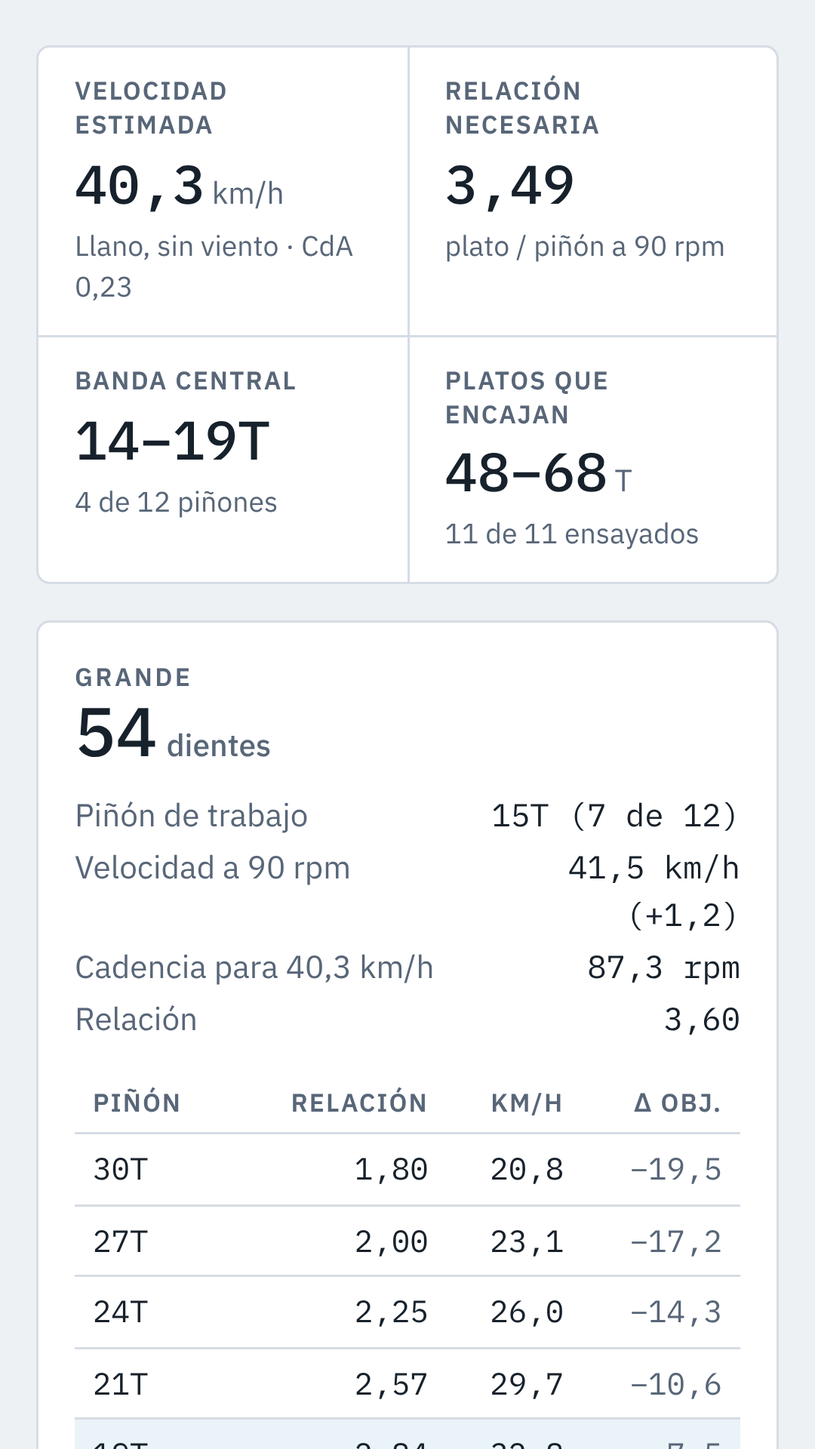
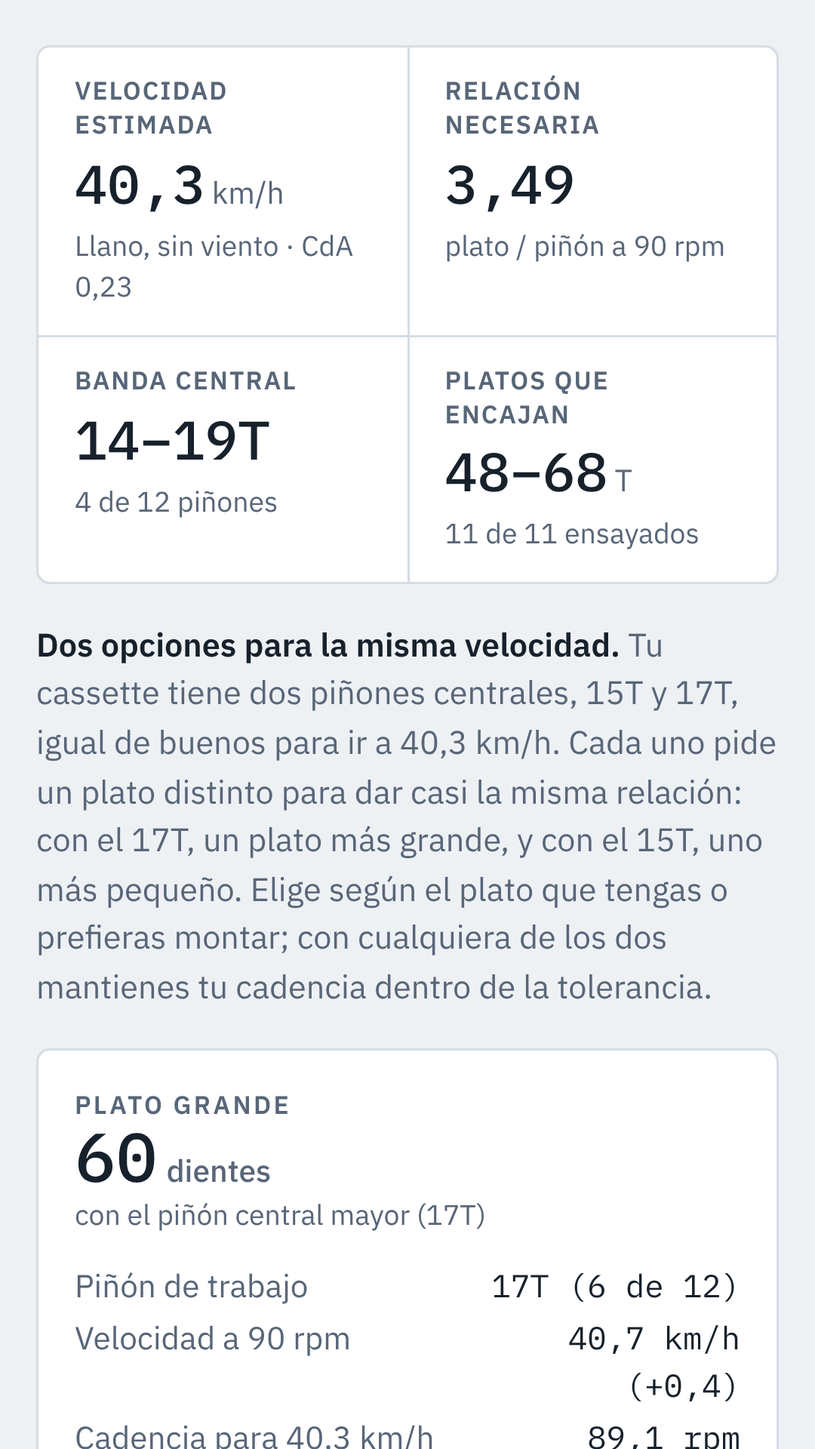
feat: dos opciones de plato (grande y pequeño) en lugar de Grande/Medio/Bajo
- analyze propone hasta dos platos, anclados al piñón central mayor («Plato grande»)
  y al menor («Plato pequeño») de la banda; con un único piñón central, una propuesta.
  El plato propuesto ya no salta entre dos familias al subir la potencia.
- Explicación para el usuario sobre las tarjetas, aviso si una ancla no tiene plato
  en el rango ensayado y textos en español e inglés.
- La tabla de subidas elige entre las dos opciones (por defecto, el plato grande).
- test: dos opciones ancladas, ancla ausente, banda impar, monotonía con los ajustes
  por defecto (150–400 W, todos los cassettes) y valores esperados de 200 a 300 W.
- docs: README, CHANGELOG, ficha de Play y descripción del manifest; capturas y gráfico
  de funciones de Play regenerados con la nueva interfaz (+ captura de subidas).

Claude-Session: https://claude.ai/code/session_01HU79VpV1XnotLDyT5Vd8zc

diff --git a/index.html b/index.html
@@ -4,7 +4,7 @@
 <meta charset="utf-8">
 <meta name="viewport" content="width=device-width, initial-scale=1, viewport-fit=cover">
 <title>Calculadora de desarrollos</title>
-<meta name="description" content="Calculadora de desarrollos para triatlón y contrarreloj: elige el plato con la mejor línea de cadena para tu velocidad objetivo, más una opción por arriba y otra por abajo.">
+<meta name="description" content="Calculadora de desarrollos para triatlón y contrarreloj: encuentra el plato con la mejor línea de cadena para tu velocidad objetivo: una opción grande y otra pequeña, según el piñón central que prefieras.">
 <meta name="theme-color" content="#EEF1F4">
 <meta name="color-scheme" content="light dark">
 <meta name="mobile-web-app-capable" content="yes">
@@ -19,7 +19,7 @@
 <style>
   html { padding-top: env(safe-area-inset-top, 0px); padding-bottom: env(safe-area-inset-bottom, 0px); }
   body { margin: 0; min-height: 100vh; }
-  /* Layout: barra superior con idioma y tema, panel de entradas, franja de resultado, tres propuestas en columnas que apilan en móvil, matriz de ensayo desplegable. Claro por defecto. */
+  /* Layout: barra superior con idioma y tema, panel de entradas, franja de resultado, dos propuestas en columnas que apilan en móvil, matriz de ensayo desplegable. Claro por defecto. */
   :root {
     --bg: #EEF1F4;
     --surface: #FFFFFF;
@@ -102,11 +102,13 @@
   .cards { display: grid; grid-template-columns: minmax(0, 1fr); gap: 16px; }
   @media (min-width: 1100px) { .cards { grid-template-columns: repeat(3, minmax(0, 1fr)); } }
   .card { background: var(--surface); border: 1px solid var(--line); border-radius: 6px; padding: 16px; display: flex; flex-direction: column; gap: 12px; min-width: 0; }
-  .card.best { border-color: var(--accent); box-shadow: 0 0 0 1px var(--accent); }
   .card header { display: flex; justify-content: space-between; align-items: center; gap: 8px; flex-wrap: wrap; min-height: 22px; }
   .tag { font-size: .7rem; text-transform: uppercase; letter-spacing: .1em; font-weight: 600; color: var(--muted); }
   .chip { font-size: .68rem; text-transform: uppercase; letter-spacing: .08em; font-weight: 600; background: var(--warn-soft); color: var(--warn); padding: 2px 8px; border-radius: 3px; }
   .cards.one { grid-template-columns: minmax(0, 1fr); max-width: 520px; }
+  @media (min-width: 700px) { .cards.two { grid-template-columns: repeat(2, minmax(0, 1fr)); max-width: 820px; } }
+  .expl { margin: 0; font-size: .9rem; color: var(--muted); max-width: 90ch; }
+  .expl strong { color: var(--ink); }
   .badge { font-size: .68rem; text-transform: uppercase; letter-spacing: .08em; font-weight: 600; background: var(--accent); color: var(--accent-ink); padding: 2px 8px; border-radius: 3px; }
   .big { font-family: var(--f-mono); font-size: 2.2rem; font-weight: 500; line-height: 1; }
   .big small { font-family: var(--f-body); font-size: .85rem; color: var(--muted); margin-left: 4px; }
@@ -319,33 +321,39 @@ function nearestIdx(chain, cogs, v, cad, circ) {
 function better(a, b) { // a mejor que b: más centrado, y a igualdad menor error de velocidad
   return a.off < b.off || (a.off === b.off && Math.abs(a.dv) < Math.abs(b.dv));
 }
-// Solo platos de dentado par. Medio = el plato par que encaja con la mejor línea de cadena (piñón más centrado; a igualdad, menor error de velocidad).
-// Grande = Medio + 2 dientes y Bajo = Medio − 2 dientes.
+// Solo platos de dentado par. Se proponen hasta dos platos, cada uno anclado a uno de los dos piñones centrales de la banda:
+// «high» = el piñón central mayor (da el plato más grande) y «low» = el menor (da el plato más pequeño). En cada ancla se elige el plato par
+// que encaja con menor error de velocidad. Anclar siempre al mismo piñón hace que, al subir la potencia, el plato propuesto solo suba o se mantenga
+// (salvo en los extremos del rango de platos). Con un solo piñón central (banda de nº impar) hay una única propuesta, «one».
+// Si ninguna ancla tiene plato que encaje pero otros sí, se propone el mejor de ellos (más centrado y, a igualdad, menor error de velocidad).
 function analyze(cogs, vKmh, cad, circ, cmin, cmax, kOverride, tolRpm) {
   var band = centralBand(cogs.length, kOverride);
   var tol = tolRpm > 0 ? tolRpm : 6;
   var lo = cmin + (cmin % 2), hi = cmax - (cmax % 2);
-  var rows = [], byChain = {};
+  var rows = [];
   for (var c = lo; c <= hi; c += 2) {
     var idx = nearestIdx(c, cogs, vKmh, cad, circ);
     var vv = speedKmh(c, cogs[idx], cad, circ);
     var cadNeed = cadenceFor(vKmh, c, cogs[idx], circ);
     var inBand = idx >= band.start && idx <= band.end;
-    var r = { chain: c, idx: idx, v: vv, dv: vv - vKmh, cadNeed: cadNeed, inBand: inBand,
-              fit: inBand && Math.abs(cadNeed - cad) <= tol, off: Math.abs(idx - band.center) };
-    rows.push(r); byChain[c] = r;
+    rows.push({ chain: c, idx: idx, v: vv, dv: vv - vKmh, cadNeed: cadNeed, inBand: inBand,
+                fit: inBand && Math.abs(cadNeed - cad) <= tol, off: Math.abs(idx - band.center) });
   }
   var fits = rows.filter(function (r) { return r.fit; });
-  var props = [];
-  var bestRow = null;
-  fits.forEach(function (r) { if (!bestRow || better(r, bestRow)) bestRow = r; });
-  if (bestRow) {
-    [["large", bestRow.chain + 2], ["medium", bestRow.chain], ["small", bestRow.chain - 2]].forEach(function (e) {
-      if (byChain[e[1]]) props.push({ label: e[0], row: byChain[e[1]] });
-    });
+  var lowIdx = Math.floor(band.center), highIdx = Math.ceil(band.center);
+  var anchors = lowIdx === highIdx ? [{ label: "one", idx: lowIdx }] : [{ label: "high", idx: highIdx }, { label: "low", idx: lowIdx }];
+  var props = [], missing = [];
+  anchors.forEach(function (an) {
+    var best = null;
+    fits.forEach(function (r) { if (r.idx === an.idx && (!best || Math.abs(r.dv) < Math.abs(best.dv))) best = r; });
+    if (best) props.push({ label: an.label, row: best, anchor: an.idx }); else missing.push(an);
+  });
+  if (!props.length && fits.length) {
+    var any = null;
+    fits.forEach(function (r) { if (!any || better(r, any)) any = r; });
+    props.push({ label: "one", row: any, anchor: any.idx });
   }
-  return { band: band, rows: rows, fits: fits, props: props, bestChain: bestRow ? bestRow.chain : null,
-           tol: tol, lo: lo, hi: hi, atCeiling: !!bestRow && bestRow.chain + 2 > hi, atFloor: !!bestRow && bestRow.chain - 2 < lo };
+  return { band: band, rows: rows, fits: fits, props: props, missing: missing, tol: tol, lo: lo, hi: hi };
 }
 // Plato fijo (sin simulación): analiza solo ese plato, de cualquier dentado.
 function fixedRow(chain, cogs, vKmh, cad, circ, kOverride, tolRpm) {
@@ -378,7 +386,7 @@ function parseCogs(text) {
 var DICT = {
   es: {
     title: "Calculadora de desarrollos",
-    sub: "Triatlón y contrarreloj. Encuentra el plato con la mejor línea de cadena para tu velocidad de carrera (piñones centrales del cassette, a tu cadencia) y una opción por arriba y otra por abajo.",
+    sub: "Triatlón y contrarreloj. Encuentra el plato con la mejor línea de cadena para tu velocidad de carrera (piñones centrales del cassette, a tu cadencia): una opción de plato grande y otra de plato pequeño.",
     lbl_cassette: "Cassette instalado", lbl_custom: "Dientes del cassette (11–13)",
     lbl_power: "Potencia media objetivo (W)", lbl_cad: "Cadencia media objetivo (rpm)", lbl_cda: "CdA (m²)",
     adv: "Ajustes avanzados", lbl_mass: "Masa ciclista + bici (kg)", lbl_crr: "Crr (rodadura)", lbl_rho: "Densidad del aire (kg/m³)",
@@ -414,21 +422,22 @@ var DICT = {
     s_fit: "Platos que encajan", none: "ninguno", d_fit: "{a} de {b} ensayados",
     w_norange: "El rango de platos no contiene ningún dentado par.",
     w_none: "Ningún plato par entre {min} y {max}T deja {v} km/h dentro de la banda central, a ±{tol} rpm de tu cadencia, con este cassette. El más próximo es {c}T, que cae en el piñón de {g}T ({cn} rpm para la velocidad objetivo). Amplía el rango de platos, sube la tolerancia o cambia de cassette.",
-    w_few: "Solo se pueden mostrar {n} propuesta(s): el plato Medio queda en el borde del rango ensayado. Amplía el rango en los ajustes avanzados para ver también el plato por encima y el de por debajo.",
-    w_ceil: "No hay propuesta Grande: el plato Medio ya está a 2 dientes del máximo del rango ({hi}T). Sube el plato máximo en los ajustes avanzados.",
-    w_floor: "No hay propuesta Baja: el plato Medio ya está a 2 dientes del mínimo del rango ({lo}T). Baja el plato mínimo en los ajustes avanzados.",
-    tag_large: "Grande", tag_medium: "Medio", tag_small: "Bajo", badge_best: "Mejor línea de cadena",
+    w_anchor: "No hay opción con el piñón central de {g}T: ningún plato par entre {lo} y {hi}T encaja con él a ±{tol} rpm de tu cadencia. Amplía el rango de platos en los ajustes avanzados o sube la tolerancia.",
+    tag_high: "Plato grande", tag_low: "Plato pequeño", tag_one: "Plato propuesto",
+    anchor_high: "con el piñón central mayor ({g}T)", anchor_low: "con el piñón central menor ({g}T)", anchor_one: "con el piñón de {g}T",
+    expl_two: "<strong>Dos opciones para la misma velocidad.</strong> Tu cassette tiene dos piñones centrales, {lo}T y {hi}T, igual de buenos para ir a {v} km/h. Cada uno pide un plato distinto para dar casi la misma relación: con el {hi}T, un plato más grande, y con el {lo}T, uno más pequeño. Elige según el plato que tengas o prefieras montar; con cualquiera de los dos mantienes tu cadencia dentro de la tolerancia.",
+    expl_one: "<strong>Plato propuesto.</strong> Tu cassette tiene un único piñón central ({g}T) y es el que mejor encaja para ir a {v} km/h con tu cadencia.",
     chip_cad: "Cadencia fuera de tolerancia", chip_band: "Fuera de la banda central", teeth: "dientes",
     k_work: "Piñón de trabajo", k_work_v: "{g}T ({pos} de {n})", k_speed: "Velocidad a {cad} rpm", k_cad: "Cadencia para {v} km/h", k_ratio: "Relación",
     th_cog: "Piñón", th_ratio: "Relación", th_kmh: "km/h", th_delta: "Δ obj.", mark_work: "piñón de trabajo", th_chain: "Plato",
     m_sum: "Ensayo completo: velocidad (km/h) de cada plato con cada piñón a {cad} rpm", m_band: "Banda central", m_near: "Piñón más cercano a {v} km/h",
-    n_crit: "<strong>Criterio.</strong> Para cada plato se busca el piñón cuya velocidad a tu cadencia queda más cerca de la objetivo. El plato encaja si ese piñón está en la banda central y la cadencia necesaria para la velocidad objetivo queda dentro de la tolerancia (±{tol} rpm). «Medio» es el plato de dentado par que encaja con la mejor línea de cadena: el piñón de trabajo más centrado en el cassette (a igualdad, el que menos se aleja de la velocidad objetivo). «Grande» es +2 dientes y «Bajo» −2 dientes respecto al Medio, tanto si encajan como si no; si alguno se sale del criterio, la tarjeta lo indica.",
+    n_crit: "<strong>Criterio.</strong> Para cada plato se busca el piñón cuya velocidad a tu cadencia queda más cerca de la objetivo. El plato encaja si ese piñón está en la banda central y la cadencia necesaria para la velocidad objetivo queda dentro de la tolerancia (±{tol} rpm). Se proponen hasta dos platos de dentado par que encajan, cada uno apoyado en uno de los dos piñones centrales de la banda (el mayor da el plato grande y el menor, el pequeño); en cada uno se elige el de menor error de velocidad. Con un número impar de piñones en la banda solo hay un piñón central y una única propuesta. Al apoyar cada opción siempre en el mismo piñón, al subir la potencia el plato propuesto solo sube o se mantiene (salvo en los extremos del rango de platos ensayado).",
     n_model: "<strong>Modelo.</strong> Potencia en rueda = potencia × eficiencia = ½·ρ·CdA·v³ + Crr·m·g·v, en llano y sin viento. Con subidas o viento la velocidad media real cambia y con ella el piñón óptimo (la tabla de subidas muestra el coste en cuesta). Se asume plato único (1x) o el plato grande en un 2x.",
     n_cogs: "<strong>Dentados.</strong> Los dentados de SRAM (Red/Force 11 y 12 velocidades, XPLR 13) están contrastados con fichas del fabricante y tiendas; los de Shimano son los habituales de la serie. Comprueba el tuyo y, si difiere, usa «Personalizado»."
   },
   en: {
     title: "Gear calculator",
-    sub: "Triathlon and time trial. Finds the chainring with the best chain line for your race speed (middle sprockets of the cassette, at your cadence), plus one size up and one down.",
+    sub: "Triathlon and time trial. Finds the chainring with the best chain line for your race speed (middle sprockets of the cassette, at your cadence): one big-chainring option and one small-chainring option.",
     lbl_cassette: "Installed cassette", lbl_custom: "Cassette teeth (11–13)",
     lbl_power: "Target average power (W)", lbl_cad: "Target average cadence (rpm)", lbl_cda: "CdA (m²)",
     adv: "Advanced settings", lbl_mass: "Rider + bike mass (kg)", lbl_crr: "Crr (rolling resistance)", lbl_rho: "Air density (kg/m³)",
@@ -464,15 +473,16 @@ var DICT = {
     s_fit: "Chainrings that fit", none: "none", d_fit: "{a} of {b} tested",
     w_norange: "The chainring range contains no even tooth count.",
     w_none: "No even-numbered chainring between {min} and {max}T keeps {v} km/h inside the central band within ±{tol} rpm of your cadence with this cassette. The closest is {c}T, which lands on the {g}T sprocket ({cn} rpm for the target speed). Widen the chainring range, raise the tolerance or change cassette.",
-    w_few: "Only {n} proposal(s) can be shown: the Medium chainring sits at the edge of the tested range. Widen the range in the advanced settings to see the sizes above and below it.",
-    w_ceil: "No Large proposal: the Medium chainring is already within 2 teeth of the top of the range ({hi}T). Raise the largest chainring in the advanced settings.",
-    w_floor: "No Small proposal: the Medium chainring is already within 2 teeth of the bottom of the range ({lo}T). Lower the smallest chainring in the advanced settings.",
-    tag_large: "Large", tag_medium: "Medium", tag_small: "Small", badge_best: "Best chain line",
+    w_anchor: "No option with the {g}T middle sprocket: no even-numbered chainring between {lo} and {hi}T fits it within ±{tol} rpm of your cadence. Widen the chainring range in the advanced settings or raise the tolerance.",
+    tag_high: "Big chainring", tag_low: "Small chainring", tag_one: "Proposed chainring",
+    anchor_high: "with the larger middle sprocket ({g}T)", anchor_low: "with the smaller middle sprocket ({g}T)", anchor_one: "with the {g}T sprocket",
+    expl_two: "<strong>Two options for the same speed.</strong> Your cassette has two middle sprockets, {lo}T and {hi}T, equally good for riding at {v} km/h. Each one needs a different chainring to give almost the same ratio: a bigger chainring with the {hi}T, a smaller one with the {lo}T. Pick the one that matches the chainring you own or prefer to fit; either keeps your cadence within tolerance.",
+    expl_one: "<strong>Proposed chainring.</strong> Your cassette has a single middle sprocket ({g}T) and it is the best fit for riding at {v} km/h at your cadence.",
     chip_cad: "Cadence out of tolerance", chip_band: "Outside central band", teeth: "teeth",
     k_work: "Working sprocket", k_work_v: "{g}T ({pos} of {n})", k_speed: "Speed at {cad} rpm", k_cad: "Cadence for {v} km/h", k_ratio: "Ratio",
     th_cog: "Sprocket", th_ratio: "Ratio", th_kmh: "km/h", th_delta: "Δ target", mark_work: "working sprocket", th_chain: "Chainring",
     m_sum: "Full trial: speed (km/h) of each chainring on each sprocket at {cad} rpm", m_band: "Central band", m_near: "Sprocket closest to {v} km/h",
-    n_crit: "<strong>Criterion.</strong> For each chainring, the sprocket whose speed at your cadence is closest to the target is picked. The chainring fits if that sprocket is in the central band and the cadence needed for the target speed is within the tolerance (±{tol} rpm). “Medium” is the even-toothed chainring that fits with the best chain line: the working sprocket nearest the middle of the cassette (ties go to the smaller speed error). “Large” is +2 teeth and “Small” is −2 teeth from Medium, whether or not they fit; the card flags any that fall outside the criterion.",
+    n_crit: "<strong>Criterion.</strong> For each chainring, the sprocket whose speed at your cadence is closest to the target is picked. The chainring fits if that sprocket is in the central band and the cadence needed for the target speed is within the tolerance (±{tol} rpm). Up to two even-toothed chainrings that fit are proposed, each based on one of the two middle sprockets of the band (the larger gives the big chainring, the smaller gives the small one); in each case the one with the smaller speed error is chosen. With an odd number of sprockets in the band there is a single middle sprocket and a single proposal. Because each option always rests on the same sprocket, the proposed chainring only goes up or stays the same as power rises (except at the ends of the tested chainring range).",
     n_model: "<strong>Model.</strong> Wheel power = power × efficiency = ½·ρ·CdA·v³ + Crr·m·g·v, on flat ground with no wind. With climbs or wind the real average speed changes, and so does the best sprocket (the climbing table shows the uphill cost). It assumes a single chainring (1x) or the big ring of a 2x.",
     n_cogs: "<strong>Tooth counts.</strong> SRAM tooth counts (Red/Force 11- and 12-speed, XPLR 13-speed) were checked against manufacturer sheets and retailers; Shimano ones are the usual counts for the series. Check yours and, if it differs, use “Custom”."
   }
@@ -534,7 +544,7 @@ function findPreset(id) {
 }
 function num(id) { return parseFloat($(id).value); }
 
-function renderCard(p, ctx, isBest) {
+function renderCard(p, ctx) {
   var r = p.row, cogs = ctx.cogs, band = ctx.res.band;
   var cadNeed = cadenceFor(ctx.v, r.chain, cogs[r.idx], ctx.circ);
   var trs = "";
@@ -544,9 +554,10 @@ function renderCard(p, ctx, isBest) {
     trs += '<tr class="' + cls + '"><td>' + cogs[j] + "T" + (j === r.idx ? '<span class="mark" role="img" aria-label="' + t("mark_work") + '" title="' + t("mark_work") + '">●</span>' : "") + "</td><td>" +
       fmt(r.chain / cogs[j], 2) + "</td><td>" + fmt(s, 1) + '</td><td class="' + (j === r.idx ? "" : "neg") + '">' + sgn(s - ctx.v, 1) + "</td></tr>";
   }
-  return '<article class="card' + (isBest ? " best" : "") + '">' +
-    '<header><div><div class="tag">' + t("tag_" + p.label) + '</div><div class="big">' + r.chain + "<small>" + t("teeth") + "</small></div></div>" +
-    (ctx.fixed && r.fit ? '<span class="badge">' + t("fixed_ok") + "</span>" : isBest ? '<span class="badge">' + t("badge_best") + "</span>" : (r.fit ? "" : '<span class="chip">' + (r.inBand ? t("chip_cad") : t("chip_band")) + "</span>")) + "</header>" +
+  return '<article class="card">' +
+    '<header><div><div class="tag">' + t("tag_" + p.label) + '</div><div class="big">' + r.chain + "<small>" + t("teeth") + "</small></div>" +
+    (p.label === "fixed" ? "" : '<div class="hint">' + t("anchor_" + p.label, { g: cogs[r.idx] }) + "</div>") + "</div>" +
+    (ctx.fixed && r.fit ? '<span class="badge">' + t("fixed_ok") + "</span>" : (r.fit ? "" : '<span class="chip">' + (r.inBand ? t("chip_cad") : t("chip_band")) + "</span>")) + "</header>" +
     '<dl class="kv">' +
     "<dt>" + t("k_work") + "</dt><dd>" + t("k_work_v", { g: cogs[r.idx], pos: cogs.length - r.idx, n: cogs.length }) + "</dd>" +
     "<dt>" + t("k_speed", { cad: fmt(ctx.cad, 0) }) + "</dt><dd>" + fmt(r.v, 1) + " km/h (" + sgn(r.dv, 1) + ")</dd>" +
@@ -555,11 +566,11 @@ function renderCard(p, ctx, isBest) {
     '<div class="scroll"><table><thead><tr><th>' + t("th_cog") + "</th><th>" + t("th_ratio") + "</th><th>" + t("th_kmh") + "</th><th>" + t("th_delta") + "</th></tr></thead><tbody>" + trs + "</tbody></table></div></article>";
 }
 
-var climbSel = "medium";
+var climbSel = "high";
 function renderClimb(ctx) {
   var opts = ctx.fixed ? [{ label: "fixed", chain: ctx.fx.row.chain }] : ctx.res.props.map(function (p) { return { label: p.label, chain: p.row.chain }; });
   if (!opts.length || !ctx.modelOk) return "";
-  var sel = opts.filter(function (q) { return q.label === climbSel; })[0] || opts.filter(function (q) { return q.label === "medium"; })[0] || opts[0];
+  var sel = opts.filter(function (q) { return q.label === climbSel; })[0] || opts[0];
   var cogs = ctx.cogs, workIdx = nearestIdx(sel.chain, cogs, ctx.v, ctx.cad, ctx.circ);
   var tb = climbTable(cogs, sel.chain, ctx.cad, ctx.circ, CLIMB_GRADES, ctx.o, ctx.ftp, HIDE_W);
   var head = "<tr><th>" + t("c_cog") + "</th><th>" + t("th_kmh") + "</th>";
@@ -672,17 +683,17 @@ function render() {
     '<div class="stat"><div class="lbl">' + t("s_fit") + '</div><div><span class="v">' + (res.fits.length ? res.fits[0].chain + "–" + res.fits[res.fits.length - 1].chain : t("none")) + "</span>" + (res.fits.length ? '<span class="u">T</span>' : "") + '</div><div class="d">' + t("d_fit", { a: res.fits.length, b: res.rows.length }) + "</div></div></div>");
 
   if (fixedOn) {
-    html += '<div class="cards one">' + renderCard({ label: "fixed", row: fx.row }, ctx, false) + "</div>";
+    html += '<div class="cards one">' + renderCard({ label: "fixed", row: fx.row }, ctx) + "</div>";
   } else if (!res.rows.length) {
     html += '<div class="warn">' + t("w_norange") + "</div>";
   } else if (!res.props.length) {
     var closest = res.rows.slice().sort(function (a, b) { return a.off - b.off || Math.abs(a.dv) - Math.abs(b.dv); })[0];
     html += '<div class="warn">' + t("w_none", { min: res.lo, max: res.hi, v: fmt(v, 1), tol: fmt(res.tol, 0), c: closest.chain, g: cogs[closest.idx], cn: fmt(closest.cadNeed, 1) }) + "</div>";
   } else {
-    html += '<div class="cards">' + res.props.map(function (p) { return renderCard(p, ctx, p.row.chain === res.bestChain); }).join("") + "</div>";
-    if (res.props.length < 3) html += '<div class="warn">' + t("w_few", { n: res.props.length }) + "</div>";
-    if (res.atCeiling) html += '<div class="warn">' + t("w_ceil", { hi: res.hi }) + "</div>";
-    if (res.atFloor) html += '<div class="warn">' + t("w_floor", { lo: res.lo }) + "</div>";
+    var lowC = cogs[Math.floor(band.center)], highC = cogs[Math.ceil(band.center)];
+    html += '<p class="expl">' + (lowC !== highC ? t("expl_two", { lo: lowC, hi: highC, v: fmt(v, 1) }) : t("expl_one", { g: lowC, v: fmt(v, 1) })) + "</p>";
+    html += '<div class="cards ' + (res.props.length === 2 ? "two" : "one") + '">' + res.props.map(function (p) { return renderCard(p, ctx); }).join("") + "</div>";
+    res.missing.forEach(function (m) { html += '<div class="warn">' + t("w_anchor", { g: cogs[m.idx], lo: res.lo, hi: res.hi, tol: fmt(res.tol, 0) }) + "</div>"; });
   }
   html += renderClimb(ctx);
   if (res.rows.length) html += renderMatrix(ctx);

diff --git a/tests/logic.test.js b/tests/logic.test.js
@@ -38,18 +38,27 @@ test("banda central del cassette: un tercio de los piñones, mínimo 3, centrada
   assert.equal(b13.k, 4);
 });
 
-test("analyze: Medio = mejor línea de cadena, Grande = Medio+2, Bajo = Medio−2", () => {
+test("analyze: dos opciones, cada una anclada a uno de los dos piñones centrales (grande = piñón mayor, pequeño = piñón menor)", () => {
   const r = C.analyze(COGS, 40.3, 90, CIRC, 48, 68, undefined, 6);
-  assert.ok(r.bestChain !== null, "debe haber un plato que encaje");
-  assert.equal(r.bestChain % 2, 0, "solo dentados pares");
-  const byLabel = Object.fromEntries(r.props.map((p) => [p.label, p.row.chain]));
-  assert.equal(byLabel.medium, r.bestChain);
-  assert.equal(byLabel.large, r.bestChain + 2);
-  assert.equal(byLabel.small, r.bestChain - 2);
-  const medium = r.props.find((p) => p.label === "medium").row;
-  assert.ok(medium.fit);
-  // Ningún candidato que encaje está más centrado que el Medio.
-  for (const f of r.fits) assert.ok(f.off >= medium.off);
+  assert.deepEqual(Array.from(r.props, (p) => p.label), ["high", "low"]);
+  const [hi, lo] = r.props;
+  assert.equal(COGS[hi.row.idx], 17); // banda 14-15-17-19 → centrales 15 y 17
+  assert.equal(COGS[lo.row.idx], 15);
+  assert.ok(hi.row.chain > lo.row.chain, "el piñón mayor da el plato mayor");
+  for (const p of r.props) {
+    assert.ok(p.row.fit);
+    assert.equal(p.row.chain % 2, 0, "solo dentados pares");
+    // Es el plato que encaja con ese piñón con menor error de velocidad.
+    for (const f of r.fits) if (f.idx === p.row.idx) assert.ok(Math.abs(f.dv) >= Math.abs(p.row.dv) - 1e-9);
+  }
+  assert.equal(r.missing.length, 0);
+});
+
+test("analyze: un solo piñón central (banda de nº impar) da una única propuesta", () => {
+  const r = C.analyze(COGS, 40.3, 90, CIRC, 48, 68, 3, 6);
+  assert.equal(r.props.length, 1);
+  assert.equal(r.props[0].label, "one");
+  assert.equal(r.props[0].row.idx, Math.round(r.band.center));
 });
 
 test("analyze: todo plato que encaja está en la banda central y dentro de la tolerancia de cadencia", () => {
@@ -64,20 +73,22 @@ test("analyze: todo plato que encaja está en la banda central y dentro de la to
   }
 });
 
-test("analyze: avisa de techo y de suelo del rango y omite la propuesta que no existe", () => {
-  const base = C.analyze(COGS, 40.3, 90, CIRC, 48, 68, undefined, 6);
-  const atTop = C.analyze(COGS, 40.3, 90, CIRC, 48, base.bestChain, undefined, 6);
-  assert.equal(atTop.atCeiling, true);
-  assert.ok(!atTop.props.some((p) => p.label === "large"));
-  const atBottom = C.analyze(COGS, 40.3, 90, CIRC, base.bestChain, 68, undefined, 6);
-  assert.equal(atBottom.atFloor, true);
-  assert.ok(!atBottom.props.some((p) => p.label === "small"));
+test("analyze: si una ancla no tiene plato en el rango, lo indica en missing y no mezcla familias", () => {
+  // 40,3 km/h a 90 rpm con 10-30: el 17T pide ~60T; con el rango limitado a 54T ya no hay plato que encaje con él.
+  const r = C.analyze(COGS, 40.3, 90, CIRC, 48, 54, undefined, 6);
+  assert.deepEqual(Array.from(r.props, (p) => p.label), ["low"]);
+  assert.deepEqual(Array.from(r.missing, (m) => m.label), ["high"]);
+  assert.equal(COGS[r.missing[0].idx], 17);
+  // Si ninguna ancla tiene plato pero otros sí encajan, se propone el mejor de ellos y se avisa de las dos anclas.
+  const f = C.analyze(COGS, 40.3, 90, CIRC, 48, 50, undefined, 6);
+  assert.deepEqual(Array.from(f.props, (p) => p.label), ["one"]);
+  assert.equal(f.missing.length, 2);
 });
 
 test("analyze: si ningún plato encaja no hay propuestas", () => {
   // A 40,3 km/h y 90 rpm hace falta una relación ≈3,49: con platos de 36–38 el piñón sería el de 10 (fuera de la banda central).
   const r = C.analyze(COGS, 40.3, 90, CIRC, 36, 38, undefined, 6);
-  assert.equal(r.bestChain, null);
+  assert.equal(r.fits.length, 0);
   assert.equal(r.props.length, 0);
 });
 
@@ -166,4 +177,32 @@ test("climbTable: oculta lo que supera el umbral y sin FTP no hay %FTP ni rango"
   assert.ok(!tb[COGS.length - 1].cells[0].hidden, "30T en llano no se oculta");
   const sin = C.climbTable(COGS, 56, 90, CIRC, C.CLIMB_GRADES, O, 0, 0);
   assert.ok(sin.every((r) => r.cells.every((c) => !c.hidden)), "umbral 0 = no oculta nada");
+});
+
+// Monotonía: con cada ancla fija, el plato propuesto no baja al subir la potencia.
+test("analyze: con los ajustes por defecto, cada opción solo sube o se mantiene al subir la potencia (150–400 W, todos los cassettes)", () => {
+  for (const g of C.PRESETS) for (const it of g.items) {
+    if (!it.cogs) continue;
+    const prev = {};
+    for (let P = 150; P <= 400; P += 1) {
+      const r = C.analyze(it.cogs, C.solveSpeed(P, O) * 3.6, 90, CIRC, 48, 68, undefined, 6);
+      for (const p of r.props) {
+        if (p.label === "one") continue;
+        // Los extremos del rango (48 y 68 T) rompen la familia por diseño: se comprueba solo en el interior.
+        if (p.row.chain <= 50 || p.row.chain >= 66) { delete prev[p.label]; continue; }
+        if (prev[p.label] != null) assert.ok(p.row.chain >= prev[p.label], `${it.id} ${p.label} ${P} W: ${prev[p.label]} → ${p.row.chain}`);
+        prev[p.label] = p.row.chain;
+      }
+    }
+  }
+});
+
+test("analyze: 10-30 a 90 rpm, 200–300 W: platos esperados de cada opción", () => {
+  const cogs = C.PRESETS[0].items.find((i) => i.id === "r12-10-30").cogs;
+  const esperado = { 200: [56, 50], 220: [58, 52], 250: [60, 54], 280: [64, 56], 300: [66, 58] }; // [grande, pequeño]
+  for (const [P, [g, p]] of Object.entries(esperado)) {
+    const r = C.analyze(cogs, C.solveSpeed(+P, O) * 3.6, 90, CIRC, 48, 68, undefined, 6);
+    assert.equal(r.props.find((x) => x.label === "high").row.chain, g, `${P} W grande`);
+    assert.equal(r.props.find((x) => x.label === "low").row.chain, p, `${P} W pequeño`);
+  }
 });

diff --git a/README.md b/README.md
@@ -2,7 +2,7 @@
 
 **App (PWA):** https://lsantome.github.io/TriTT-Gear-Calculator/
 
-Calculadora para triatlón y contrarreloj. Dado el cassette, la potencia media y la cadencia objetivo, estima la velocidad en llano y propone **tres platos de dentado par y correlativos**: el **medio** es el de mejor línea de cadena, con uno por arriba y otro por abajo, junto con la tabla de velocidades de cada marcha. También puede analizar un **plato fijo** que tú indiques, sin simulación. Funciona sin conexión.
+Calculadora para triatlón y contrarreloj. Dado el cassette, la potencia media y la cadencia objetivo, estima la velocidad en llano y propone **dos platos de dentado par** con la mejor línea de cadena —uno **grande** y otro **pequeño**, según cuál de los dos piñones centrales del cassette prefieras usar—, junto con la tabla de velocidades de cada marcha y una tabla de **subidas** (potencia y % de FTP por pendiente). También puede analizar un **plato fijo** que tú indiques, sin simulación. Funciona sin conexión.
 
 - Español e inglés (español por defecto) y modo claro/oscuro (claro por defecto).
 - Cassettes SRAM Red/Force de 11, 12 y 13 velocidades, Shimano de 11 y 12 velocidades y cassette personalizado de 11 a 13 piñones.
@@ -19,8 +19,8 @@ Calculadora para triatlón y contrarreloj. Dado el cassette, la potencia media y
 1. Elige el cassette (o escribe los piñones en «Personalizado»).
 2. Indica potencia media, cadencia objetivo y CdA (0,23 m² por defecto). La velocidad objetivo se calcula con el modelo de abajo.
 3. Ajusta el rango de platos a simular, o fija un plato concreto.
-4. Lee las tres tarjetas (Grande / Medio / Bajo) y la tabla de velocidades por marcha.
-5. **Subidas.** La tabla «Subidas» da la potencia que cuesta mantener, a tu cadencia objetivo, la velocidad de cada piñón en pendientes del 0 al 15 % (elige Grande, Medio o Bajo). Si indicas tu **FTP**, cada celda muestra también el % de FTP y se colorea según el esfuerzo típico de ese rango (leyenda bajo la tabla). Las celdas de más de 1000 W se ocultan.
+4. Lee las dos tarjetas (Plato grande / Plato pequeño) y la tabla de velocidades por marcha. La explicación sobre ellas dice cuándo elegir cada una.
+5. **Subidas.** La tabla «Subidas» da la potencia que cuesta mantener, a tu cadencia objetivo, la velocidad de cada piñón en pendientes del 0 al 15 % (elige Plato grande o Plato pequeño). Si indicas tu **FTP**, cada celda muestra también el % de FTP y se colorea según el esfuerzo típico de ese rango (leyenda bajo la tabla). Las celdas de más de 1000 W se ocultan.
 
 La versión instalada se ve bajo el título: `v1.0.0 · build abc1234 · 2026-10-23` (`desarrollo` si se abre `index.html` sin compilar).
 
@@ -28,7 +28,9 @@ La versión instalada se ve bajo el título: `v1.0.0 · build abc1234 · 2026-10
 
 Potencia en rueda = potencia × eficiencia = ½·ρ·CdA·v³ + Crr·m·g·v, en llano y sin viento. En la tabla de subidas se añade la gravedad: potencia en pedal = (½·ρ·CdA·v³ + m·g·v·(Crr·cosθ + sinθ)) ÷ eficiencia, con θ = arctan(pendiente), velocidad constante, sin viento ni inercias. Valores por defecto: CdA 0,23 m², masa 85 kg, Crr 0,004, ρ 1,19 kg/m³, eficiencia 97,5 %, rueda 700×28c (2136 mm).
 
-Solo se simulan platos de dentado par. Para cada uno se busca el piñón más cercano a la velocidad objetivo; **encaja** si ese piñón está en la banda central del cassette (un tercio de los piñones, mínimo 3) y la cadencia necesaria queda dentro de la tolerancia (±6 rpm por defecto). **Medio** es el plato que encaja con el piñón más centrado (a igualdad, el de menor error de velocidad); **Grande** es Medio + 2 dientes y **Bajo** es Medio − 2. La app avisa si Medio está en el borde del rango y falta una de las dos.
+Solo se simulan platos de dentado par. Para cada uno se busca el piñón más cercano a la velocidad objetivo; **encaja** si ese piñón está en la banda central del cassette (un tercio de los piñones, mínimo 3) y la cadencia necesaria queda dentro de la tolerancia (±6 rpm por defecto). Con un número par de piñones en la banda central hay **dos piñones centrales** igual de buenos, y cada uno pide un plato distinto para dar casi la misma relación: el **plato grande** se apoya en el piñón central mayor y el **plato pequeño** en el menor; en cada uno se elige el plato par que encaja con menor error de velocidad. Si la banda tiene un número impar de piñones, hay un único piñón central y una única propuesta. La app avisa si alguna de las dos opciones no tiene plato que encaje dentro del rango ensayado.
+
+Anclar cada opción siempre al mismo piñón hace que, al subir la potencia, el plato propuesto solo suba o se mantenga. Con los ajustes por defecto (90 rpm, rango 48–68 T) esto se comprueba en las pruebas para todos los cassettes de la lista de 150 a 400 W, salvo en los extremos del rango (≤ 50 T o ≥ 66 T), donde la familia de platos puede salirse del rango; si cambias la cadencia o la tolerancia, no está garantizado.
 
 ## Limitaciones
 
@@ -36,7 +38,6 @@ Solo se simulan platos de dentado par. Para cada uno se busca el piñón más ce
 - Tabla de subidas: es una estimación, no un perfil de recorrido. Usa el mismo CdA que en llano (en una subida real cambia la postura) y la cadencia objetivo en todos los piñones, así que a pendientes altas con piñones pequeños salen potencias inasumibles a propósito. Con terreno variable la potencia normalizada es mayor que la media, y el % de FTP de la tabla es el de potencia constante.
 - Leyenda de esfuerzo por % de FTP: valores típicos de IF por tipo de esfuerzo de Coggan, publicados por TrainingPeaks. No son límites de duración individuales y no cubren esfuerzos de más de 2,5 h.
 - Se asume plato único (1x) o el plato grande de un 2x.
-- Con dos piñones centrales (cassettes de piñones pares), «Medio» puede saltar entre dos familias de platos al variar la potencia, porque ambos están igual de centrados.
 - Los dentados de SRAM están contrastados con fichas del fabricante y tiendas; los de Shimano son los habituales de la serie y **no están verificados contra fichas oficiales**. Si el tuyo difiere, usa «Personalizado».
 
 ## Datos y privacidad

diff --git a/docs/play-store/ficha.md b/docs/play-store/ficha.md
@@ -22,7 +22,8 @@ Calculadora de desarrollos para triatlón y contrarreloj. Dices qué cassette mo
 
 QUÉ HACE
 • Estima la velocidad a partir de tu potencia con un modelo físico: resistencia aerodinámica (CdA, densidad del aire), rodadura (masa, Crr), eficiencia de la transmisión y circunferencia de la rueda.
-• Propone tres platos de dentado par y correlativos: uno medio, con la mejor línea de cadena (piñones centrales del cassette), y uno por arriba y otro por abajo.
+• Propone dos platos de dentado par con la mejor línea de cadena, uno grande y otro pequeño, según cuál de los dos piñones centrales del cassette prefieras usar, con una explicación de cuándo elegir cada uno.
+• Tabla de subidas: potencia necesaria con cada piñón a tu cadencia en pendientes del 0 al 15 %. Si indicas tu FTP, muestra también el % de FTP con rangos de esfuerzo.
 • Muestra, para cada propuesta, el piñón de trabajo, la velocidad que da a tu cadencia, la cadencia necesaria para tu velocidad objetivo y una tabla con la velocidad de cada marcha.
 • Modo de plato fijo: indica el plato que ya montas y analiza solo ese, sin simular otros tamaños.
 • También puedes fijar una velocidad objetivo directamente, sin pasar por la potencia.
@@ -66,7 +67,8 @@ Gear calculator for triathlon and time trial. Tell it which cassette you run and
 
 WHAT IT DOES
 • Estimates speed from your power with a physical model: aerodynamic drag (CdA, air density), rolling resistance (mass, Crr), drivetrain efficiency and wheel circumference.
-• Suggests three consecutive even-toothed chainrings: a middle one with the best chain line (central sprockets of the cassette), plus one size up and one down.
+• Suggests two even-toothed chainrings with the best chain line, a big one and a small one, depending on which of the cassette's two middle sprockets you prefer to use, with an explanation of when to pick each.
+• Climbing table: power needed on each sprocket at your cadence on gradients from 0 to 15 %. If you enter your FTP it also shows % of FTP with effort ranges.
 • For each suggestion it shows the working sprocket, the speed it gives at your cadence, the cadence needed for your target speed and a table with the speed in every gear.
 • Fixed chainring mode: enter the chainring you already run and only that one is analysed, with no other sizes simulated.
 • You can also set a target speed directly, bypassing power.
@@ -104,4 +106,4 @@ La categoría se elige en *Presencia en la tienda → Configuración de la app*.
 
 ## Gráficos
 
-En `docs/play-store/graficos/`: icono 512×512, gráfico de funciones 1024×500 y capturas de teléfono 1080×1920 en español (`es-*`) y en inglés (`en-*`). Sube las de cada idioma a su traducción.
+En `docs/play-store/graficos/`: icono 512×512, gráfico de funciones 1024×500 y 6 capturas de teléfono 1080×1920 en español (`captura-es-*`) y en inglés (`captura-en-*`): inicio, resultado, las dos opciones de plato, modo oscuro, plato fijo y subidas. Sube las de cada idioma a su traducción.

diff --git a/CHANGELOG.md b/CHANGELOG.md
@@ -4,6 +4,10 @@ Formato basado en [Keep a Changelog](https://keepachangelog.com/es-ES/1.1.0/) y 
 
 ## [Sin publicar]
 
+### Cambiado
+- Los tres platos Grande / Medio / Bajo (Medio ±2 dientes) pasan a **dos opciones**: «Plato grande» y «Plato pequeño», apoyadas respectivamente en el piñón central mayor y en el menor del cassette, con una explicación para el usuario. Así el plato propuesto ya no salta entre dos familias al subir la potencia (antes, p. ej. 56 → 50 → 58 → 52 T entre 200 y 220 W en un 10-30). Con una banda de nº impar de piñones hay una única propuesta. Cierra el pendiente del desempate de «Medio».
+- Capturas y gráfico de funciones de la ficha de Google Play regenerados con la nueva interfaz; se añade una captura de la tabla de subidas.
+
 ### Añadido
 - Tabla «Subidas»: potencia necesaria (W) para mantener la velocidad de cada piñón a la cadencia objetivo en pendientes del 0 al 15 %, para el plato Grande, Medio o Bajo (o el fijo). Nueva entrada opcional **FTP**: la tabla añade el % de FTP y colorea cada celda por rango de esfuerzo, con leyenda. Las celdas de más de 1000 W se ocultan.
 - `privacidad.html`: política de privacidad pública en español e inglés, publicada con la PWA (exigida por Google Play).
